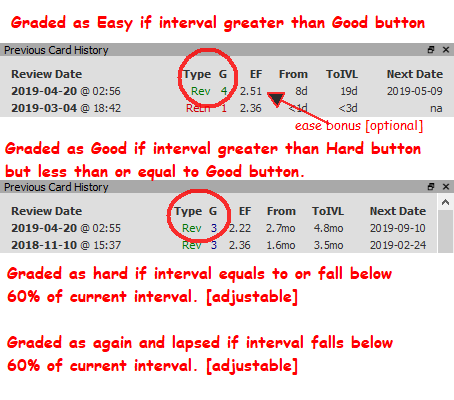
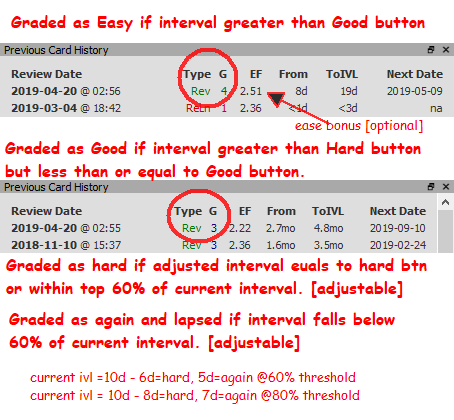
fixed V2 filter decks

diff --git a/src/rememorize_btn/rememorize_btn.py b/src/rememorize_btn/rememorize_btn.py
@@ -36,11 +36,14 @@ class ReMemButtons:
         self.rememorize=ReMemorizeScheduler(self.conf)
 
 
-    def setButtons(self, card):
+    def reset(self, n=4):
+        self.mode=True
         self.btns=[]
+        self.setCount(n)
 
-        if self.conf.get('enable_write_access',False) and \
-        self.alt_sched.isReschedulable(card):
+
+    def setButtons(self, card):
+        if self.alt_sched.isReschedulable(card):
             if card.type in (0,1):
                 key='new_modifier_buttons'
             elif card.queue in (1,3):
@@ -51,7 +54,7 @@ class ReMemButtons:
             self.write_btns=len(w)
             self.btns.extend(w)
 
-        if self.rememorize:
+        if self.rememorize and self.alt_sched.isDynReschedulable(card):
             r=self.conf.get('rememorize_buttons',DEFAULT_BTN)
             self.btns.extend(r)
 
@@ -100,13 +103,10 @@ class ReMemButtons:
 
 
     def setCount(self, cnt):
-        self.mode=True
         self.count=cnt
-
 
     def getCount(self):
         return max(4,self.count)
-
 
     def getExtraCount(self):
         "return length of total btns"

diff --git a/src/rememorize_btn/alt_sched.py b/src/rememorize_btn/alt_sched.py
@@ -63,11 +63,15 @@ class AltScheduler:
     def isReschedulable(self, card):
         if not self.conf.get('enable_write_access',False):
             return False
+        return self.isDynReschedulable(card)
 
-        #check V1 V2 filter reschedule
-        if mw.col.sched.name=="std":
-            return mw.col.sched._resched(card)
-        return True
+
+    def isDynReschedulable(self, card):
+        "check V1 V2 filter reschedule"
+        dconf=mw.col.sched._cardConf(card)
+        if not dconf['dyn']:
+            return True
+        return dconf['resched']
 
 
     def reschedule(self, card, ease, modifier):

diff --git a/src/rememorize_btn/main.py b/src/rememorize_btn/main.py
@@ -22,7 +22,7 @@ rBtn=ReMemButtons()
 def wrap_answerButtons(sched, card, _old):
     cnt=_old(sched, card)
 
-    rBtn.setCount(cnt)
+    rBtn.reset(cnt)
     rBtn.setButtons(card)
     if not rBtn.check(card):
         return cnt

diff --git a/README.md b/README.md
@@ -4,7 +4,7 @@
 <b>Note:</b> In read only mode, this addon requires ReMemorize for scheduling.
 
 ### ReMemorize Buttons:
-In read only mode, this addon sends a signal to ReMemorize and reschedules the current card in the reviewer. Logging, Fuzz, and load balance are performed by ReMemorize. The ReMemorize buttons are logged as reschedules, not as regular reviews, they are not intended for abuse. Use the modifier buttons if you need these logged as regular reviews.
+In read only mode, this addon sends a signal to ReMemorize and reschedules the current card in the reviewer. Logging, Fuzz, and load balance are performed by ReMemorize. The ReMemorize buttons are logged as reschedules, not as regular reviews, they are not intended for abuse. Use the modifier buttons if you need these logged as regular reviews.  
 
 Values include: positive or negative intervals, positive or negative dates, and zero. No p prefix.  
 
@@ -12,7 +12,7 @@ You can remove or create as many custom buttons as you need.
 
 
 ### Modifier Buttons:
-In write enabled mode, modifier buttons are created. These buttons are used similar to the interval modifier and are logged as regular reviews. If the adjusted interval is above the good button, it will be counted as an ease bonus and graded as "easy" 4. If below good, it'll be graded as "good" 3. And below a certain threshold, it's graded as "hard" 2. Below this threshold, it's counted as "again" 1 or lapsed.
+In write enabled mode, modifier buttons are created. These buttons are used similar to the interval modifier and are logged as regular reviews. If the adjusted interval is above the good button, it will be counted as an ease bonus and graded as "easy" 4. If below good, it'll be graded as "good" 3. And within a certain threshold of the current interval, it's graded as "hard" 2. But below this threshold, it's counted as "again" 1 or lapsed, similar to grading the card with a new lapsed interval of 50% or so.  
 
 You can remove or create as many custom modifier buttons as you need.  
 
